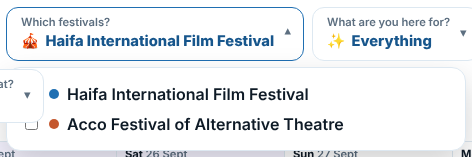
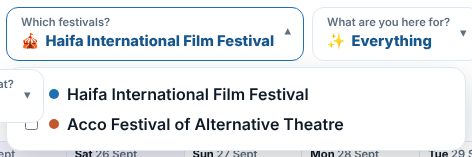
Fit the calendar to the visible width, each day capped at 260px
The planner's day columns no longer hold a 168px floor that pushed the
calendar into a sideways scroll: every day of the trip shares the width
there is, up to --sch-day-max.

Claude-Session: https://claude.ai/code/session_01GjDQR2zHUeyKV4dM4mgpoP

Changed region(s): [[0.1483, 0.9427, 0.5636, 1.0], [0.5932, 0.9427, 0.8008, 1.0], [0.8898, 0.9427, 1.0, 1.0]]

diff --git a/product/requirements/behavior/cases/planng-calendar-fits.23.16.case.js b/product/requirements/behavior/cases/planng-calendar-fits.23.16.case.js
@@ -1,0 +1,46 @@
+"use strict";
+const { jerusalemReady } = require("../../shared/case-helpers");
+
+const CAP_PX = 260;
+
+/* The calendar's width against the space it has: its scroller never has more
+ * to scroll than it shows, and a column is never wider than the cap. */
+const layout = (page) =>
+  page.evaluate(() => {
+    const wrap = document.querySelector("#schedule").closest(".schedule-wrap");
+    const cols = [...document.querySelectorAll("#schedule .sch-day")].map((c) => c.getBoundingClientRect().width);
+    return {
+      overflow: wrap.scrollWidth - wrap.clientWidth,
+      page: document.documentElement.scrollWidth - document.documentElement.clientWidth,
+      days: cols.length,
+      widest: Math.max(...cols),
+    };
+  });
+
+module.exports = {
+  description: "the calendar never scrolls sideways, and a day's column is capped",
+  page: "/planNG/?festival=jerusalem-comedy",
+  viewport: "mobile",
+  async verify(page, { origin, assert }) {
+    const open = async (query, size) => {
+      if (size) await page.setViewportSize(size);
+      await page.goto(`${origin}/planNG/?festival=jerusalem-comedy${query}`, { waitUntil: "load" });
+      await jerusalemReady(page);
+      return layout(page);
+    };
+
+    const phone = await open("");
+    assert.equal(phone.days, 7, "a week on a phone");
+    assert.ok(phone.overflow <= 0, `nothing to scroll sideways on a phone (${phone.overflow}px over)`);
+    assert.ok(phone.page <= 0, "nor does the page itself");
+
+    const month = await open("&from=2026-10-10&to=2026-11-09", { width: 1280, height: 900 });
+    assert.equal(month.days, 31, "the longest trip allowed");
+    assert.ok(month.overflow <= 0, `31 days fit a desk's width (${month.overflow}px over)`);
+
+    const wide = await open("", { width: 2560, height: 1200 });
+    assert.equal(wide.days, 7);
+    assert.ok(wide.widest <= CAP_PX + 1, `a column stops at ${CAP_PX}px (widest ${wide.widest}px)`);
+    assert.ok(wide.widest >= CAP_PX - 1, "and reaches it when there is room");
+  },
+};

diff --git a/site/planNG/planNG.css b/site/planNG/planNG.css
@@ -648,13 +648,20 @@ body.festival-page {
 
 [dir="rtl"] .drawer-caret { transform: scaleX(-1); }
 [dir="rtl"] .drawer[open] .drawer-caret { transform: scaleX(-1) rotate(90deg); }
-/* A night's column has to hold a show's name and the four verdicts side by
-   side; below that it stops being something anyone can act on. So the calendar
-   scrolls sideways on a narrow screen rather than squeezing five columns into
-   it — the wrapper is already a scroller, it just had nothing to scroll. At the
-   committed desktop viewport five columns are far wider than this, so nothing
-   there moves. */
-.sch-day { min-width: 168px; }
+/* The calendar never scrolls sideways: every day of the trip shares the
+   width there is, however narrow that makes a column, and a column stops at
+   --sch-day-max so a wide screen with a short trip doesn't stretch a day into
+   a banner. */
+:root {
+  --sch-day-max: 260px;
+}
+.schedule {
+  min-width: 0;
+}
+.sch-day {
+  min-width: 0;
+  max-width: var(--sch-day-max);
+}
 
 /* --- the preference questions ---------------------------------------------
  *
